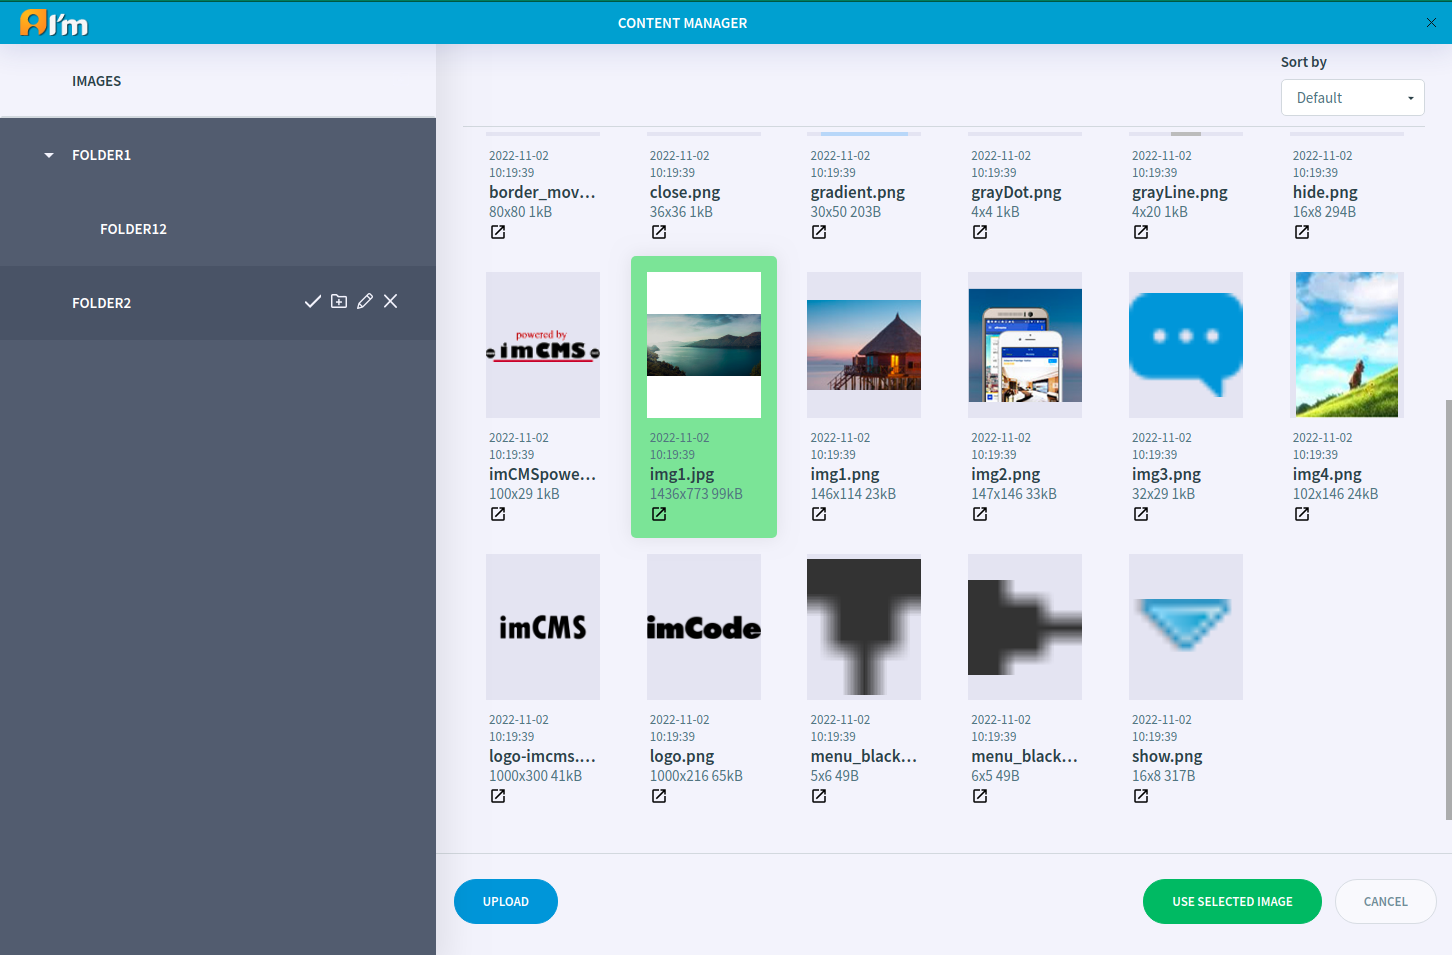
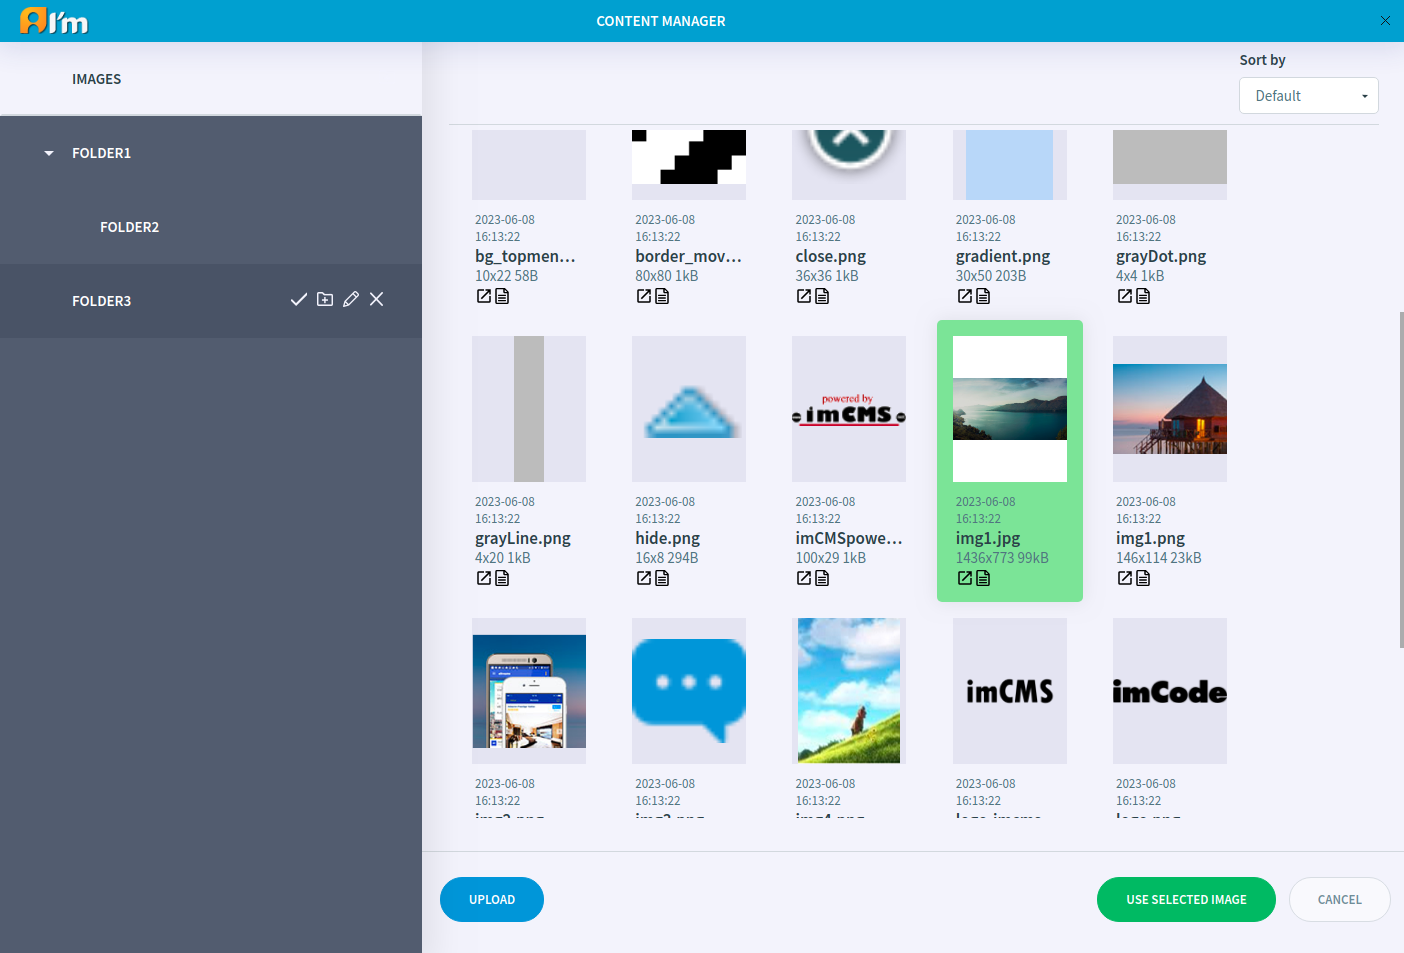
Issue IMCMS-769 RB6: Image archive: improve meta-data handling: - Add docs

diff --git a/docs/user-documentation/editors/image/image-library.rst b/docs/user-documentation/editors/image/image-library.rst
@@ -5,12 +5,16 @@ In this article:
     - `Introduction`_
     - `Choose Image`_
     - `File Management`_
+    - `Custom Metadata`_
 
 .. |create| image:: _static/library/icon_folder_controll_create.png
 .. |edit| image:: _static/library/ic_text_editor.png
     :height: 12pt
 
 .. |check| image:: _static/library/icon_folder_controll_reverse_check.png
+
+.. |metadata| image:: _static/library/icon_metadata.png
+    :height: 12pt
 
 ------------
 Introduction
@@ -46,7 +50,7 @@ You cannot delete an image if it is used in some document.
 
 In order to **move an image** to another folder, **hold down the mouse button** on the desired image and **move it to** the name of the **another folder**.
 
-In order to **open a folder**, **double-click** on it.
+In order to **open a folder**, **click** on it.
 
 In order to **change the sorting of images** in a folder, you have to **select** the required sorting **in the drop-down list at the top and right**.
 Default sorting - from newest to oldest.
@@ -57,3 +61,11 @@ In order to **rename a folder**, you have to **click** |edit| in the line with t
 
 In order to **delete a folder**, you have to **click X** in the line with the name of the folder.
 You cannot delete a folder if it contains files.
+
+---------------
+Custom Metadata
+---------------
+
+ImCMS provides the ability to edit some metadata values. To do this, you have to click |metadata|.
+
+.. image:: _static/library/metadata-editor.png

diff --git a/docs/user-documentation/editors/image/image-editor.rst b/docs/user-documentation/editors/image/image-editor.rst
@@ -186,4 +186,4 @@ What can you do:
     Image compression reduces the size of the image, so image will take up less disk space and load faster on the page.
     Compression can sometimes degrade quality.
 * View exif information.
-    Exif info - information commenting on the file, describing the conditions and methods for obtaining it, authorship, etc.
+    Exif info - metadata tags, information commenting on the file, describing the conditions and methods for obtaining it, authorship, etc.
